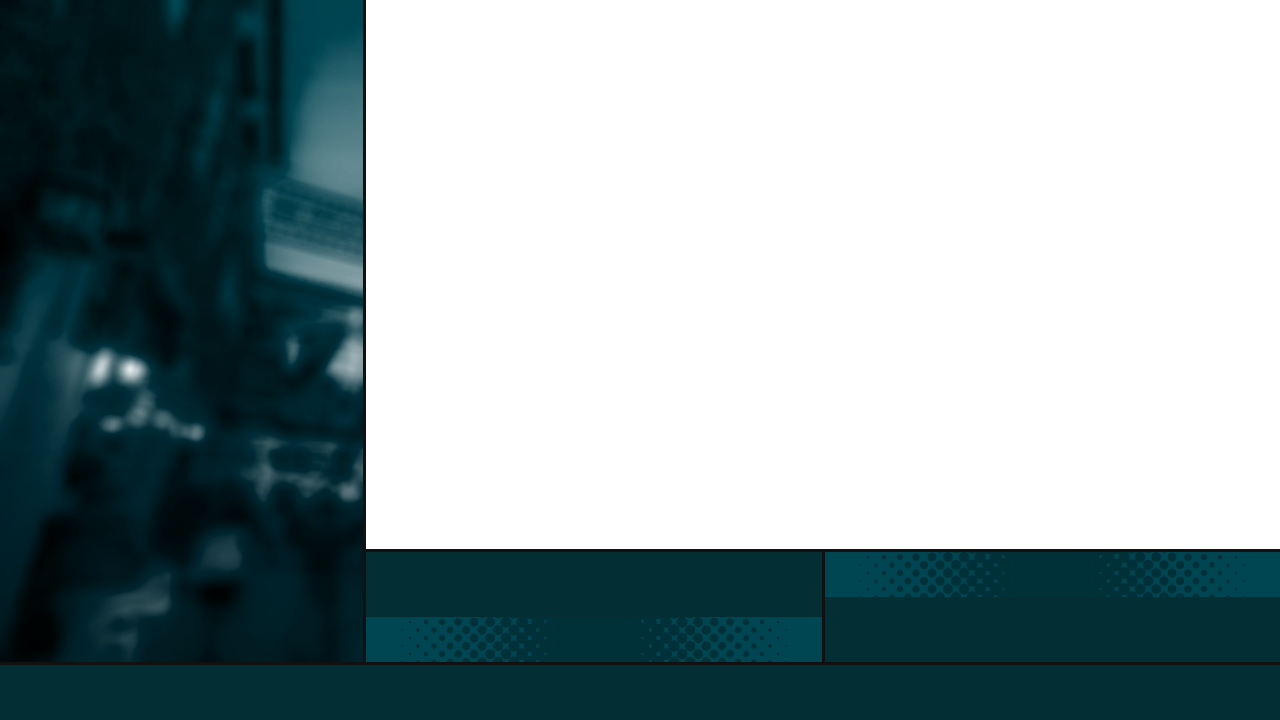
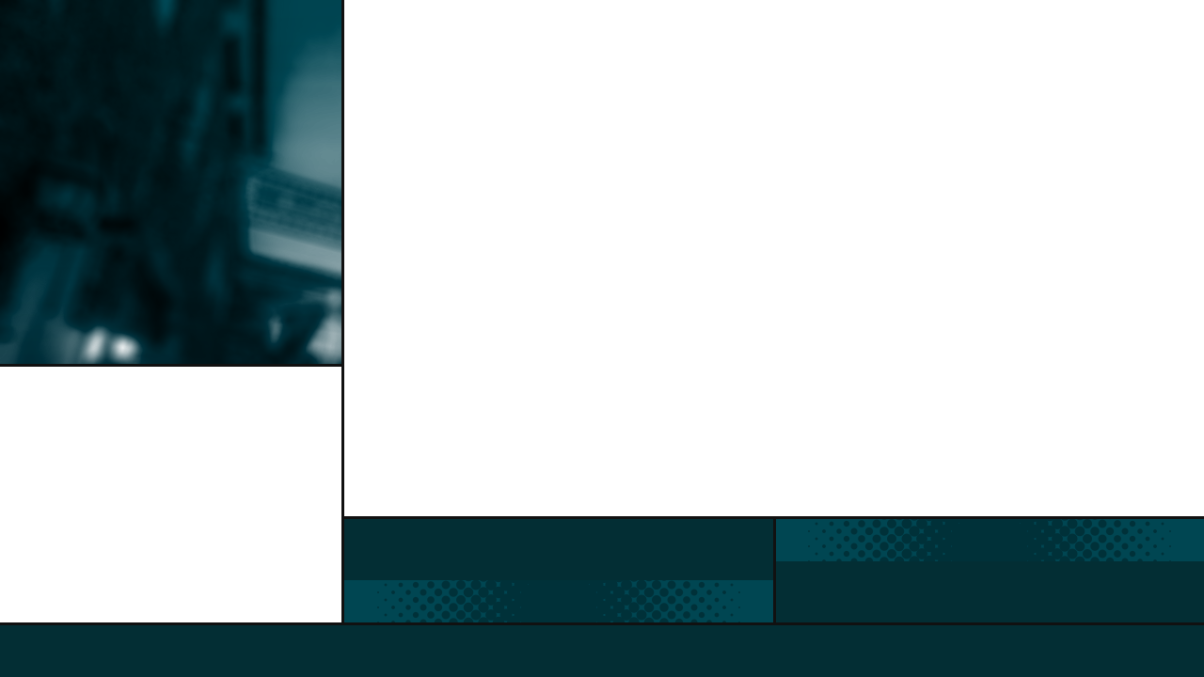
Offline intermission checkpoint

Changed region(s): [[0.0, 0.5273, 0.3073, 0.9306]]

diff --git a/graphics/js/layouts/intermission/run-info.js b/graphics/js/layouts/intermission/run-info.js
@@ -1,0 +1,135 @@
+// Main run info update functionality.
+'use strict';
+
+// The bundle name where all the run information is pulled from.
+const speedcontrolBundle = 'nodecg-speedcontrol';
+const donationBundle = 'speedcontrol-gdqtracker';
+
+const rotateInterval = 15000;
+let rotateState = 0;
+
+// Initialize the page.
+$(() => {
+    // Run data.
+    let runDataActiveRun = nodecg.Replicant('runDataActiveRun', speedcontrolBundle);
+    let runDataArray = nodecg.Replicant('runDataArray', speedcontrolBundle);
+    let bids = nodecg.Replicant('bids', donationBundle);
+
+    // Get the next X runs in the schedule.
+    function getNextRuns(runData, amount) {
+        let nextRuns = [];
+        let indexOfCurrentRun = findIndexInRunDataArray(runData);
+        for (let i = 1; i <= amount; i++) {
+            if (!runDataArray.value[indexOfCurrentRun + i]) {
+                break;
+            }
+            nextRuns.push(runDataArray.value[indexOfCurrentRun + i]);
+        }
+        return nextRuns;
+    }
+
+    // Find array index of current run based on it's ID.
+    function findIndexInRunDataArray(run) {
+        let indexOfRun = -1;
+
+        // Completely skips this if the run variable isn't defined.
+        if (run) {
+            for (let i = 0; i < runDataArray.value.length; i++) {
+                if (run.id === runDataArray.value[i].id) {
+                    indexOfRun = i; break;
+                }
+            }
+        }
+
+        return indexOfRun;
+    }
+
+    if (isOffline) {
+        loadOffline();
+    }
+    else {
+        loadFromSpeedControl();
+    }
+
+    function loadOffline() {
+        let upNextGame = $('#up-next-game');
+        let upNextInfo = $('#up-next-info');
+
+        upNextGame.html('Army of Two: The 40th Day');
+        upNextInfo.html('All Items - Mr_Shasta');
+        runFitText('#up-next-game', upNextGameWidth);
+	    runFitText('#up-next-info', upNextInfoWidth);
+
+        let onDeckGame1 = $('#on-deck-game1');
+        let onDeckInfo1 = $('#on-deck-info1');
+
+        let onDeckGame2 = $('#on-deck-game2');
+        let onDeckInfo2 = $('#on-deck-info2');
+
+        onDeckGame1.text('A Hat in Time');
+        onDeckInfo1.text('Any% - flarebear');
+        runFitText('#on-deck-game1', onDeckGameWidth);
+	    runFitText('#on-deck-info1', onDeckInfoWidth);
+
+        onDeckGame2.text('Fire Emblem: Three Houses');
+        onDeckInfo2.text('Golden Deer - Claris');
+        runFitText('#on-deck-game2', onDeckGameWidth);
+	    runFitText('#on-deck-info2', onDeckInfoWidth);
+    }
+
+    // (As of writing) triggered from a dashboard button and also when a run's timer ends
+    // nodecg.listenFor('forceRefreshIntermission', speedcontrolBundle, () => {
+    //     refreshNextRunsData(runDataActiveRun.value);
+    // });
+
+    function loadFromSpeedControl() {
+        // This is where the information is received for the run we want to display.
+        // The "change" event is triggered when the current run is changed.
+        runDataActiveRun.on('change', (newVal, oldVal) => {
+            refreshNextRunsData(newVal);
+        });
+
+        runDataArray.on('change', (newVal, oldVal) => {
+            refreshNextRunsData(runDataActiveRun.value);
+        });
+    }
+
+    function getNamesForRun(runData) {
+        let currentTeamsData = getRunnersFromRunData(runData);
+        let names = [];
+        for (let team of currentTeamsData) {
+            for (let player of team.players) {
+                names.push(player.name);
+            }
+        }
+        return names;
+    }
+
+    function refreshNextRunsData(currentRun) {
+        const numUpcoming = 3;
+        let nextRuns = getNextRuns(currentRun, numUpcoming);
+
+        let comingUpGame = $('.coming-up-name');
+        let comingUpRunner = $('.coming-up-runner');
+
+        // Next up game.
+        comingUpGame.html(currentRun.game);
+        comingUpRunner.html(getNamesForRun(runDataActiveRun.value).join(', '));
+
+        // On deck games.
+        let i = 0;
+        for (let run of nextRuns) {
+            i += 1;
+            let onDeckGame = $(".on-deck-name" + i);
+            let onDeckRunner = $(".on-deck-runner" + i);
+            onDeckGame.html(run.game).show();
+            onDeckRunner.html(getNamesForRun(run).join(', ')).show();
+        }
+
+        // Hide extra on deck games we don't need.
+        for (let j = i + 1; j <= numUpcoming; j++) {
+            $(".on-deck-name" + j).hide();
+            $(".on-deck-runner" + j).hide();
+        }
+    }
+});

diff --git a/graphics/Intermission.html b/graphics/Intermission.html
@@ -1,0 +1,48 @@
+<!DOCTYPE html>
+<html>
+
+<head>
+  <meta charset="UTF-8">
+
+  <!-- CSS -->
+  <link rel="stylesheet" href="css/common.css" />
+  <link rel="stylesheet" href="css/layouts/Intermission.css" />
+
+  <!-- JavaScript -->
+  <script src="https://ajax.googleapis.com/ajax/libs/jquery/3.3.1/jquery.min.js"></script>
+
+  <script src="js/jquery.fittext.js"></script>
+  <script src="js/utils.js"></script>
+  <script src="js/layouts/intermission/run-info.js"></script>
+  <script src="js/timer.js"></script>
+
+  <script>
+    let isOffline = true;
+
+    let upNextGameWidth = 420;
+    let upNextInfoWidth = 375;
+
+    let onDeckGameWidth = 374;
+    let onDeckInfoWidth = 330;
+  </script>
+</head>
+
+<body>
+  <div id="up-next-label">Up Next</div>
+  <div id="up-next-game"></div>
+  <div id="up-next-info"></div>
+
+  <div id="on-deck-label">On Deck</div>
+  <div id="on-deck-game1"></div>
+  <div id="on-deck-info1"></div>
+
+  <div id="on-deck-game2"></div>
+  <div id="on-deck-info2"></div>
+
+  <!-- omnibar icons-->
+  <div id="directrelief-logo"><img src="img/logos/DirectRelief_Logo_RGB.png" /></div>
+  <div id="donation-total">$25,356</div>
+  <div id="calithon-logo"><img src="img/logos/CalithonLogoA.png" /></div>
+</body>
+
+</html>

diff --git a/graphics/css/layouts/Intermission.css b/graphics/css/layouts/Intermission.css
@@ -1,0 +1,75 @@
+body {
+	background: url('../../img/layouts/Calithon_Intermission.png') no-repeat;
+	background-size: 1280px 720px;
+}
+
+#up-next-label {
+	font-size: 16pt;
+	width: 428px;
+	position: absolute;
+	top: 102px;
+	right: 0;
+}
+
+#up-next-game {
+	font-family: 'Economica Bold';
+	font-size: 36pt;
+	width: 420px;
+	line-height: 85px;
+	position: absolute;
+	top: 130px;
+	right: 0;
+}
+
+#up-next-info {
+	font-size: 24pt;
+	width: 375px;
+	line-height: 42px;
+	position: absolute;
+	top: 215px;
+	right: 0;
+}
+
+#on-deck-label {
+	font-size: 16pt;
+	width: 385px;
+	position: absolute;
+	top: 266px;
+	right: 0;
+}
+
+#on-deck-game1 {
+	font-size: 30pt;
+	width: 374px;
+	line-height: 62px;
+	position: absolute;
+	top: 293px;
+	right: 0;
+}
+
+#on-deck-info1 {
+	font-size: 24pt;
+	width: 330px;
+	line-height: 42px;
+	position: absolute;
+	top: 355px;
+	right: 0;
+}
+
+#on-deck-game2 {
+	font-size: 30pt;
+	width: 374px;
+	line-height: 62px;
+	position: absolute;
+	top: 423px;
+	right: 0;
+}
+
+#on-deck-info2 {
+	font-size: 24pt;
+	width: 330px;
+	line-height: 42px;
+	position: absolute;
+	top: 485px;
+	right: 0;
+}

diff --git a/graphics/js/utils.js b/graphics/js/utils.js
@@ -1,3 +1,12 @@
+function runFitText(selector, baseWidth) {
+    $(selector).css('font-size', '');
+    let selectorWidth = getAutoWidth(selector);
+
+    if (selectorWidth >= baseWidth) {
+        $(selector).fitText(selectorWidth / baseWidth);
+    }
+}
+
 function getAutoWidth(selector) {
 	$(selector).css('width', 'auto');
 	const width = $(selector).innerWidth();

diff --git a/graphics/js/layouts/game-layout/run-info.js b/graphics/js/layouts/game-layout/run-info.js
@@ -93,15 +93,6 @@ $(() => {
 					$('#runner-details' + i).data('teamID', player.teamID);
 				}
 			}
-
-			function runFitText(selector, baseWidth) {
-				$(selector).css('font-size', '');
-				let selectorWidth = getAutoWidth(selector);
-
-				if (selectorWidth >= baseWidth) {
-					$(selector).fitText(selectorWidth / baseWidth);
-				}
-			}
 		}
 	}
 });

diff --git a/graphics/4x3-1player.html b/graphics/4x3-1player.html
@@ -13,7 +13,7 @@
 
 	<script src="js/jquery.fittext.js"></script>
 	<script src="js/utils.js"></script>
-	<script src="js/run-info.js"></script>
+	<script src="js/layouts/game-layout/run-info.js"></script>
 	<script src="js/timer.js"></script>
 
 	<script>
